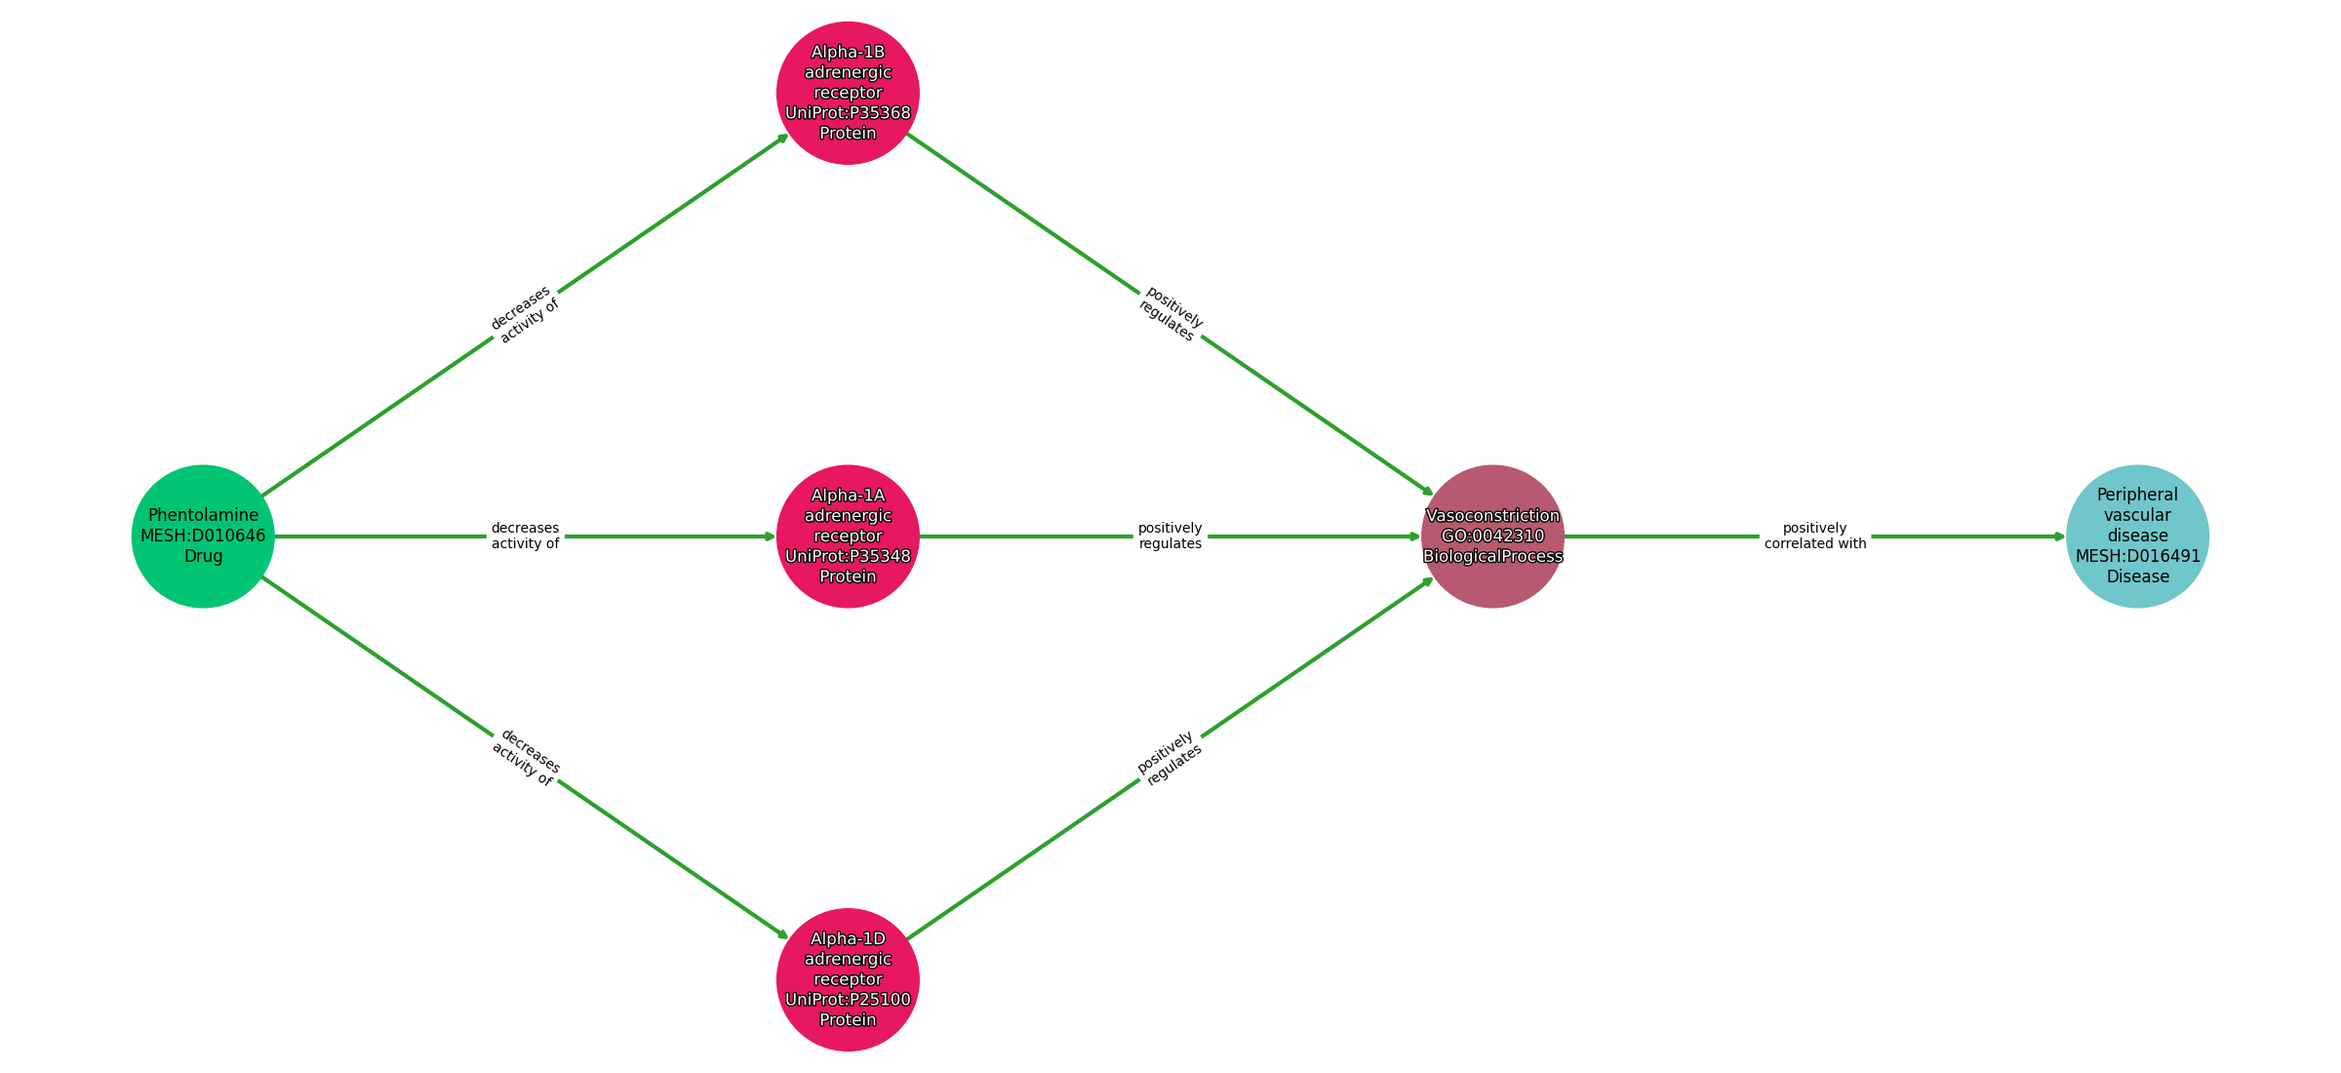
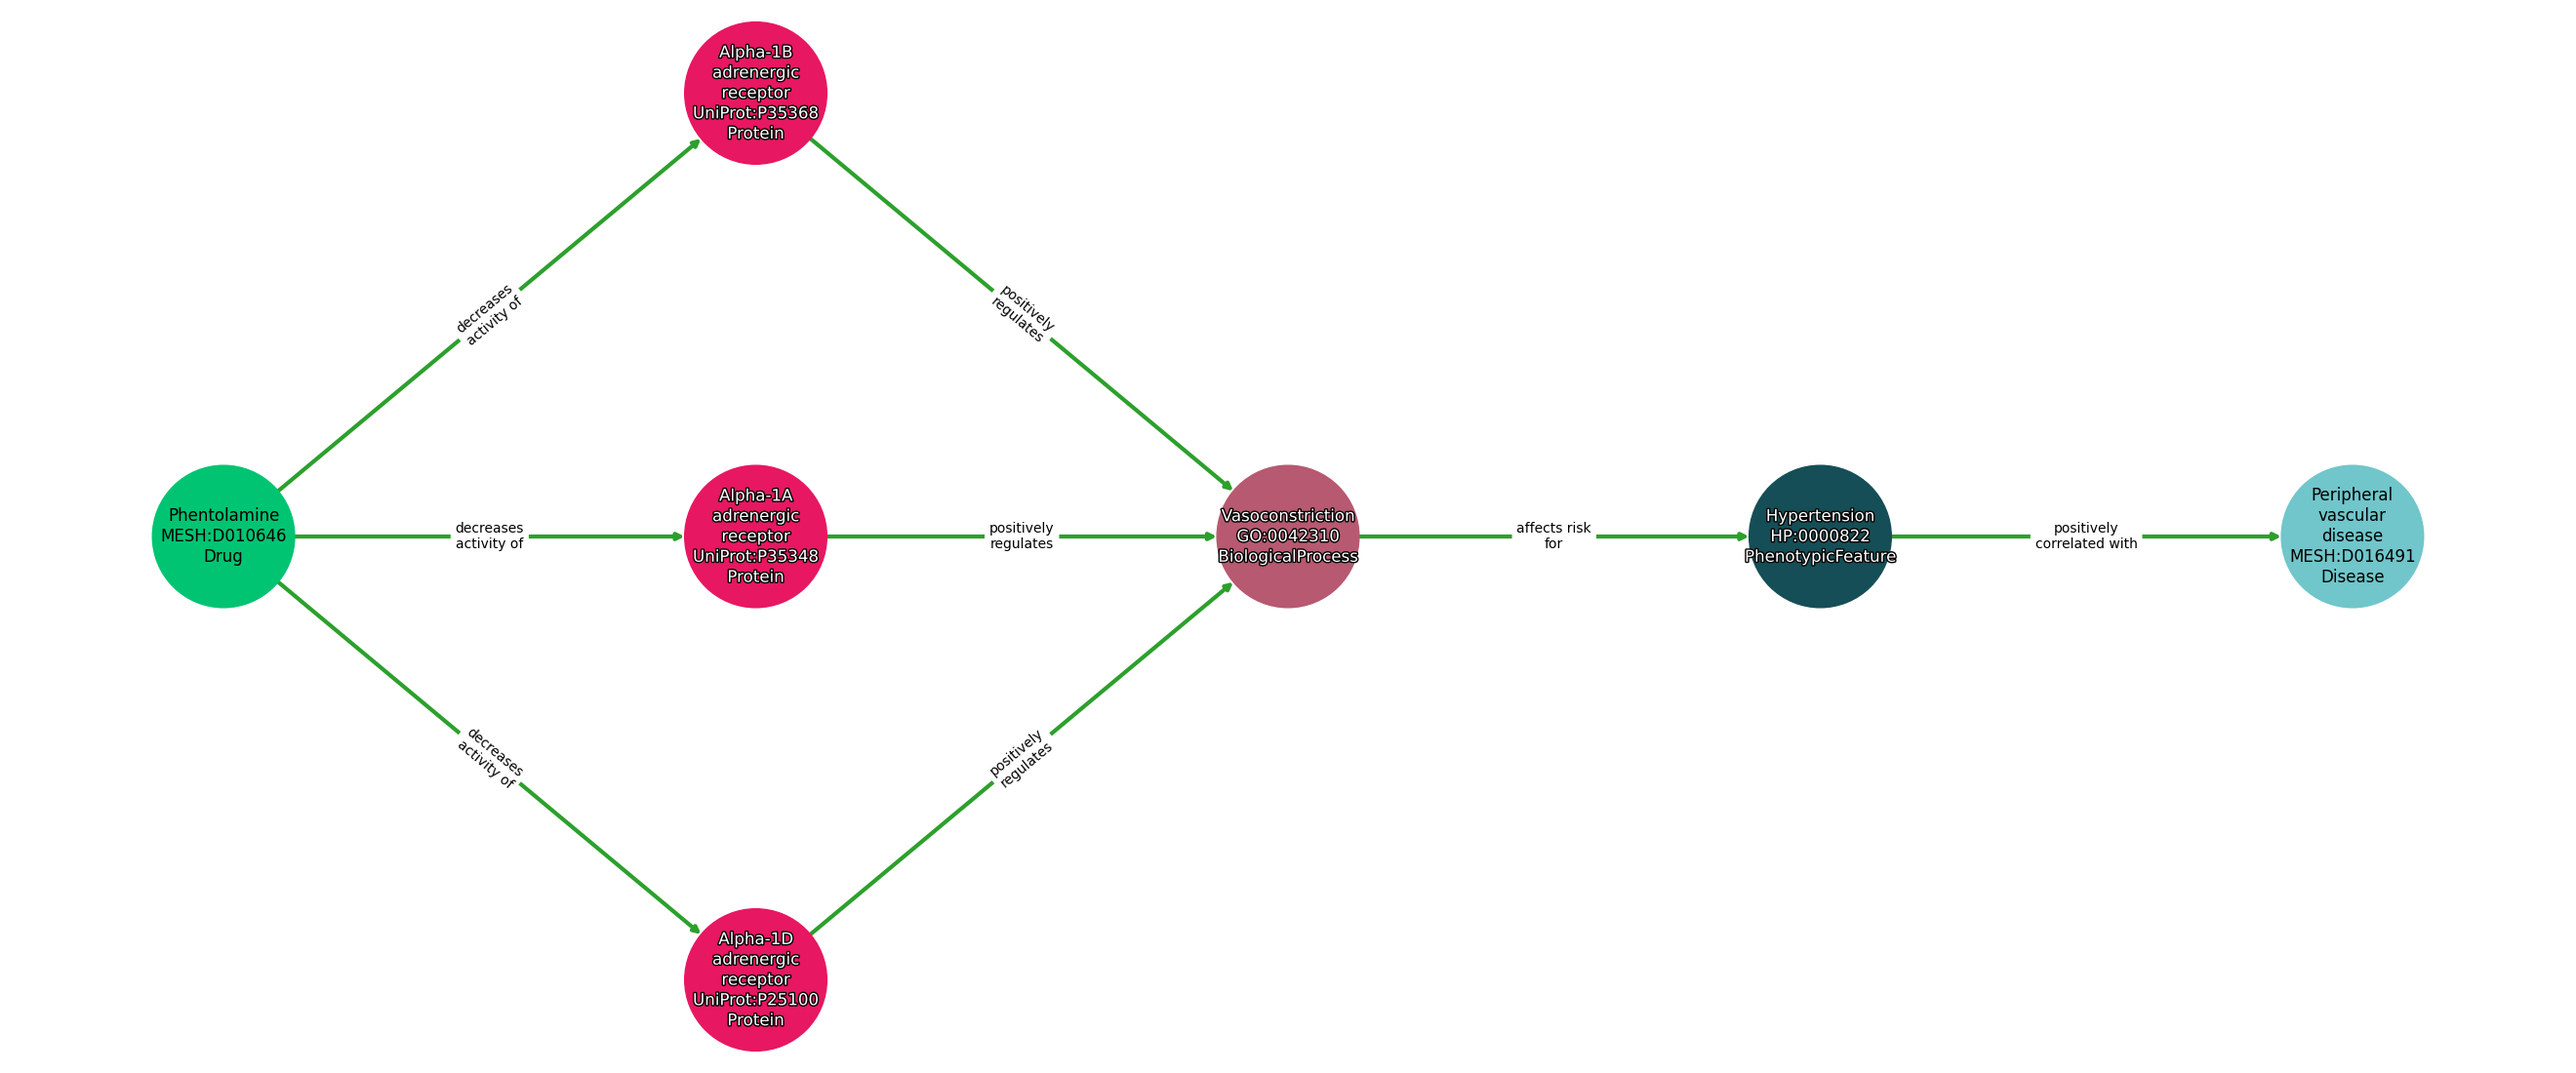
Update to Website

diff --git a/pages/mydoc/overview.md b/pages/mydoc/overview.md
@@ -2300,7 +2300,7 @@ datatable: true
 | [DB08980_MESH_D017202_1](db08980-mesh-d017202-1.html) | fendiline | DB:DB08980 | MESH:D005275 | Ischemic heart disease | MESH:D017202 | 7 | 6 |
 | [DB00356_MESH_D009128_1](db00356-mesh-d009128-1.html) | chlorzoxazone | DB:DB00356 | MESH:D002753 | Spasticity | MESH:D009128 | 11 | 14 |
 | [DB00830_MESH_D009765_1](db00830-mesh-d009765-1.html) | phenmetrazine | DB:DB00830 | MESH:D010633 | Obesity | MESH:D009765 | 8 | 8 |
-| [DB00692_MESH_D016491_1](db00692-mesh-d016491-1.html) | phentolamine | DB:DB00692 | MESH:D010646 | Peripheral vascular disease | MESH:D016491 | 6 | 7 |
+| [DB00692_MESH_D016491_1](db00692-mesh-d016491-1.html) | phentolamine | DB:DB00692 | MESH:D010646 | Peripheral vascular disease | MESH:D016491 | 7 | 8 |
 | [DB01619_MESH_D014581_3](db01619-mesh-d014581-3.html) | Phenindamine | DB:DB01619 | MESH:C005430 | Urticaria | MESH:D014581 | 5 | 4 |
 | [DB01619_MESH_D011537_3](db01619-mesh-d011537-3.html) | Phenindamine | DB:DB01619 | MESH:C005430 | Pruritus | MESH:D011537 | 5 | 4 |
 | [DB01619_MESH_D012912_3](db01619-mesh-d012912-3.html) | Phenindamine | DB:DB01619 | MESH:C005430 | Sneezing | MESH:D012912 | 5 | 4 |

diff --git a/pages/mydoc/db00692-mesh-d016491-1.md b/pages/mydoc/db00692-mesh-d016491-1.md
@@ -19,6 +19,7 @@ Path ID: `DB00692_MESH_D016491_1`
 | UniProt:P35348 | Alpha-1A adrenergic receptor | Protein |
 | UniProt:P25100 | Alpha-1D adrenergic receptor | Protein |
 | GO:0042310 | Vasoconstriction | BiologicalProcess |
+| HP:0000822 | Hypertension | PhenotypicFeature |
 | MESH:D016491 | Peripheral vascular disease | Disease |
 |------------|------|---------|
 
@@ -33,10 +34,11 @@ Path ID: `DB00692_MESH_D016491_1`
 | Alpha-1B Adrenergic Receptor | POSITIVELY REGULATES | Vasoconstriction |
 | Alpha-1A Adrenergic Receptor | POSITIVELY REGULATES | Vasoconstriction |
 | Alpha-1D Adrenergic Receptor | POSITIVELY REGULATES | Vasoconstriction |
-| Vasoconstriction | POSITIVELY CORRELATED WITH | Peripheral Vascular Disease |
+| Vasoconstriction | AFFECTS RISK FOR | Hypertension |
+| Hypertension | POSITIVELY CORRELATED WITH | Peripheral Vascular Disease |
 |---------|-----------|---------|
 
-Comment: Phentolamine primary action is vasodilation due to alfa-1 blockade.
+Comment: Phentolamine primary action is vasodilation due to α1 blockade.
 
 Reference: 
   - [https://en.wikipedia.org/wiki/Phentolamine](https://en.wikipedia.org/wiki/Phentolamine)
